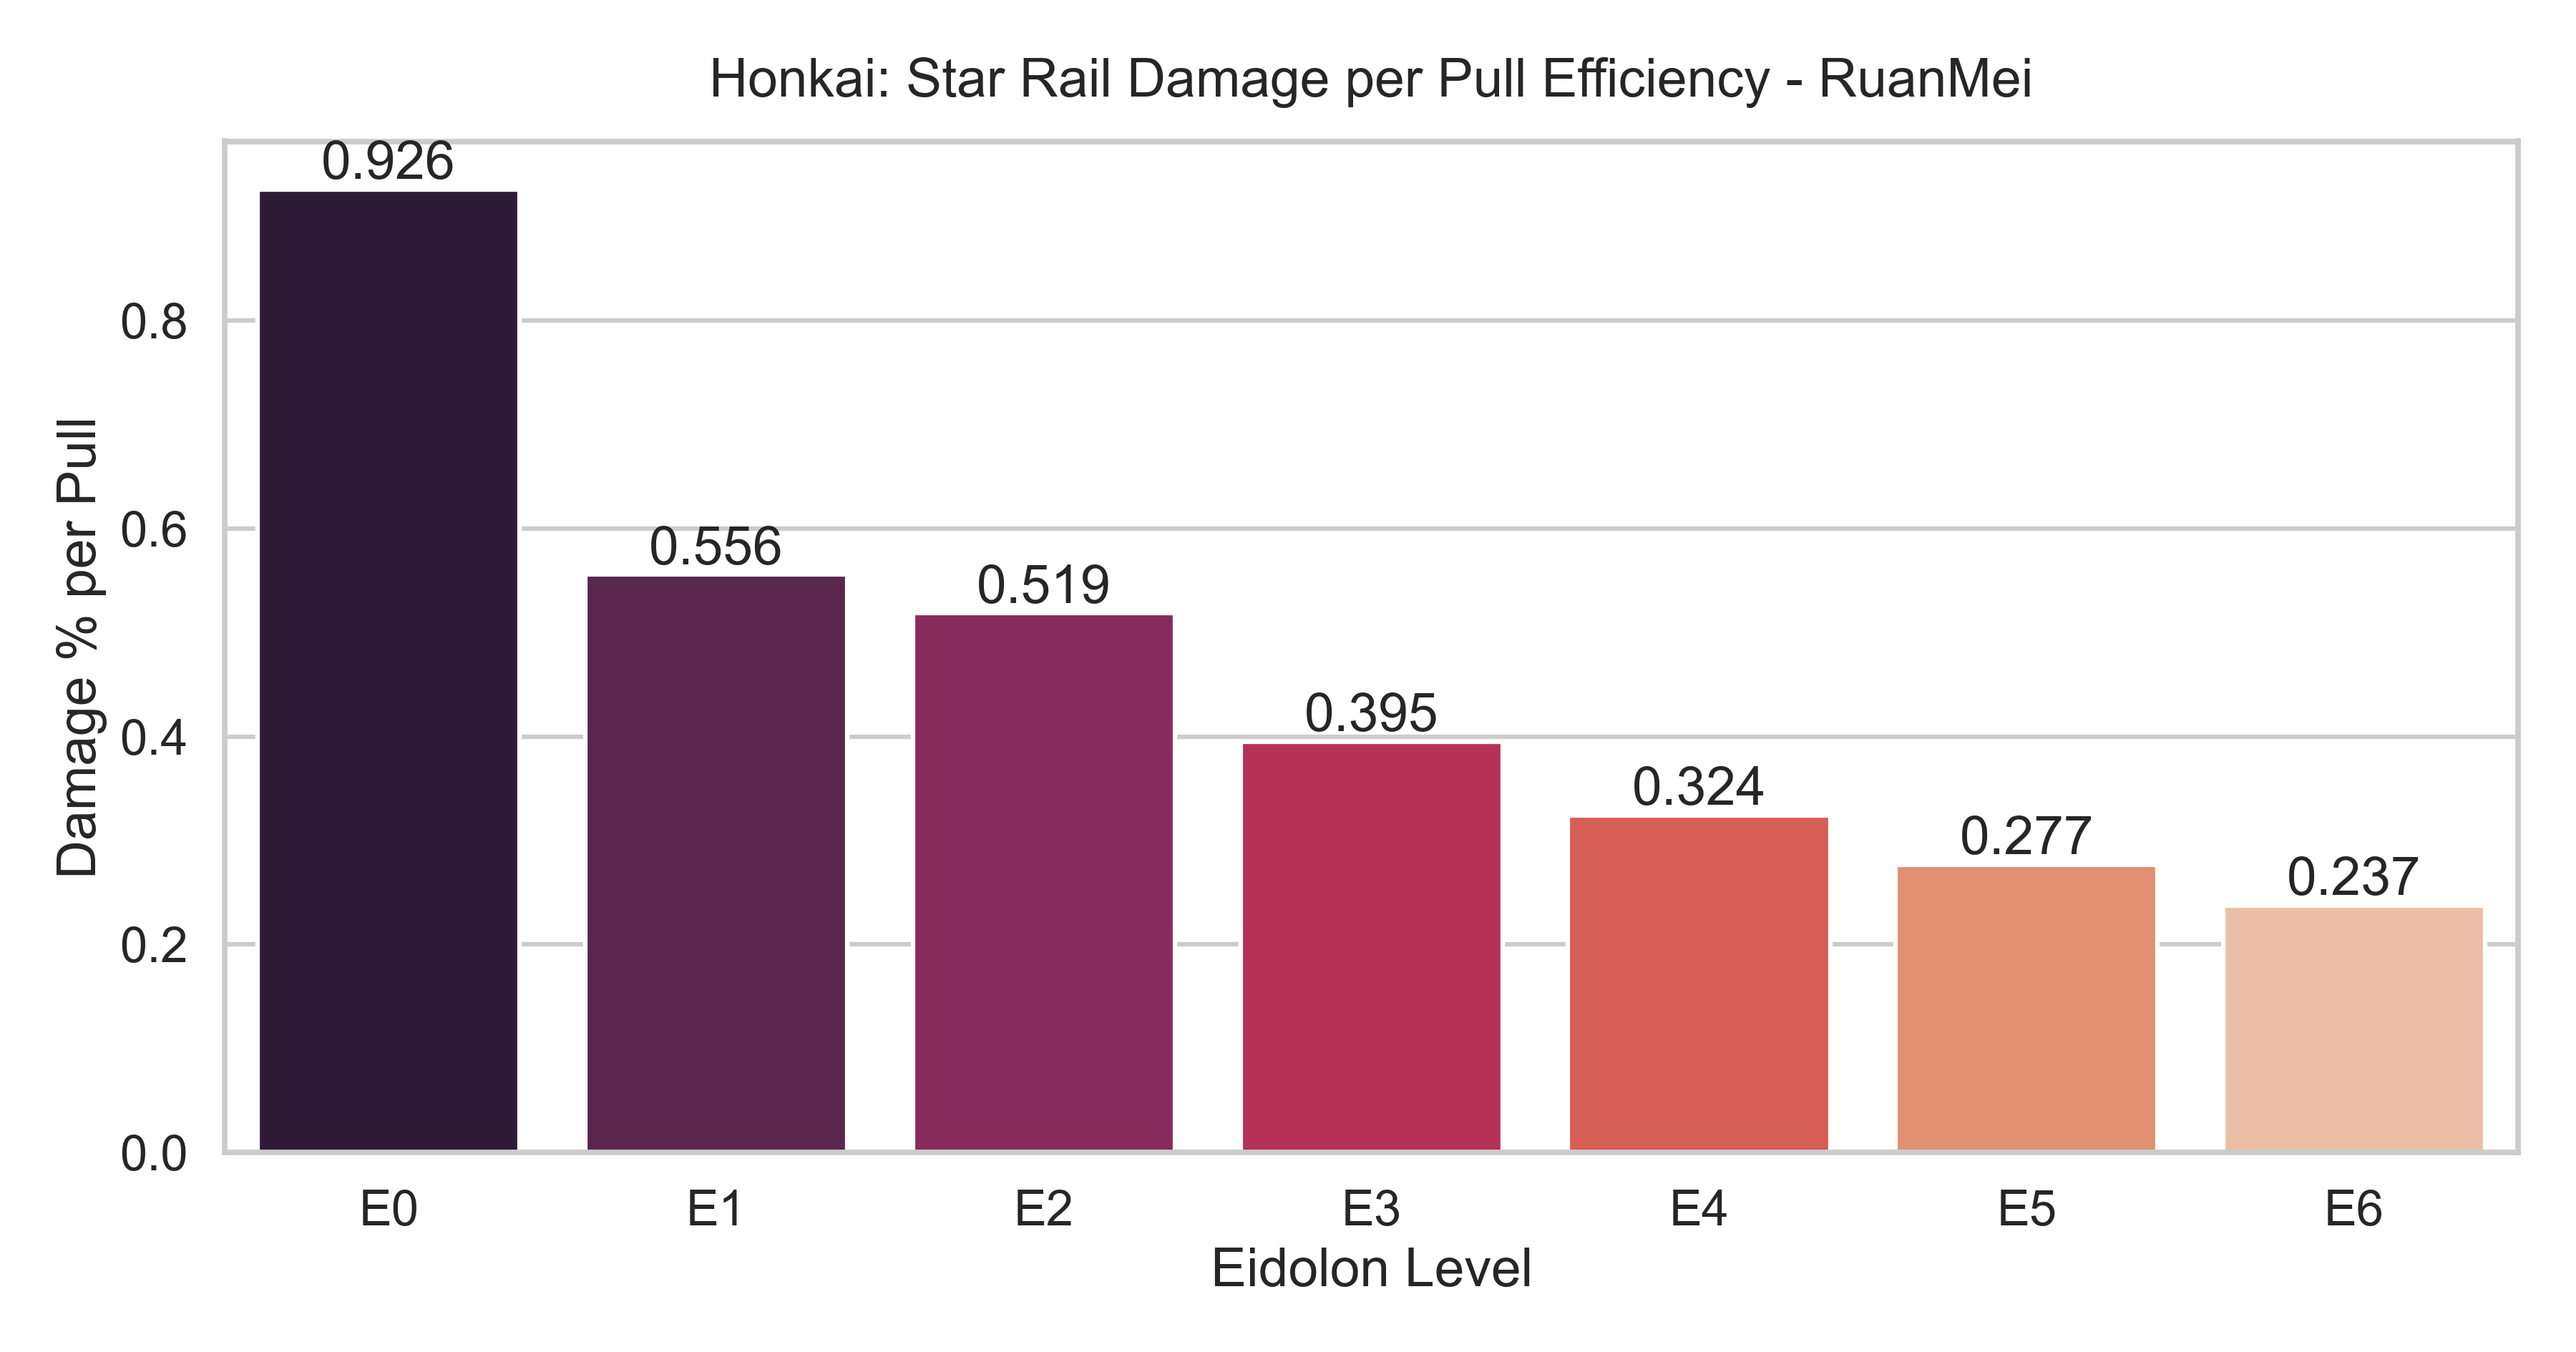
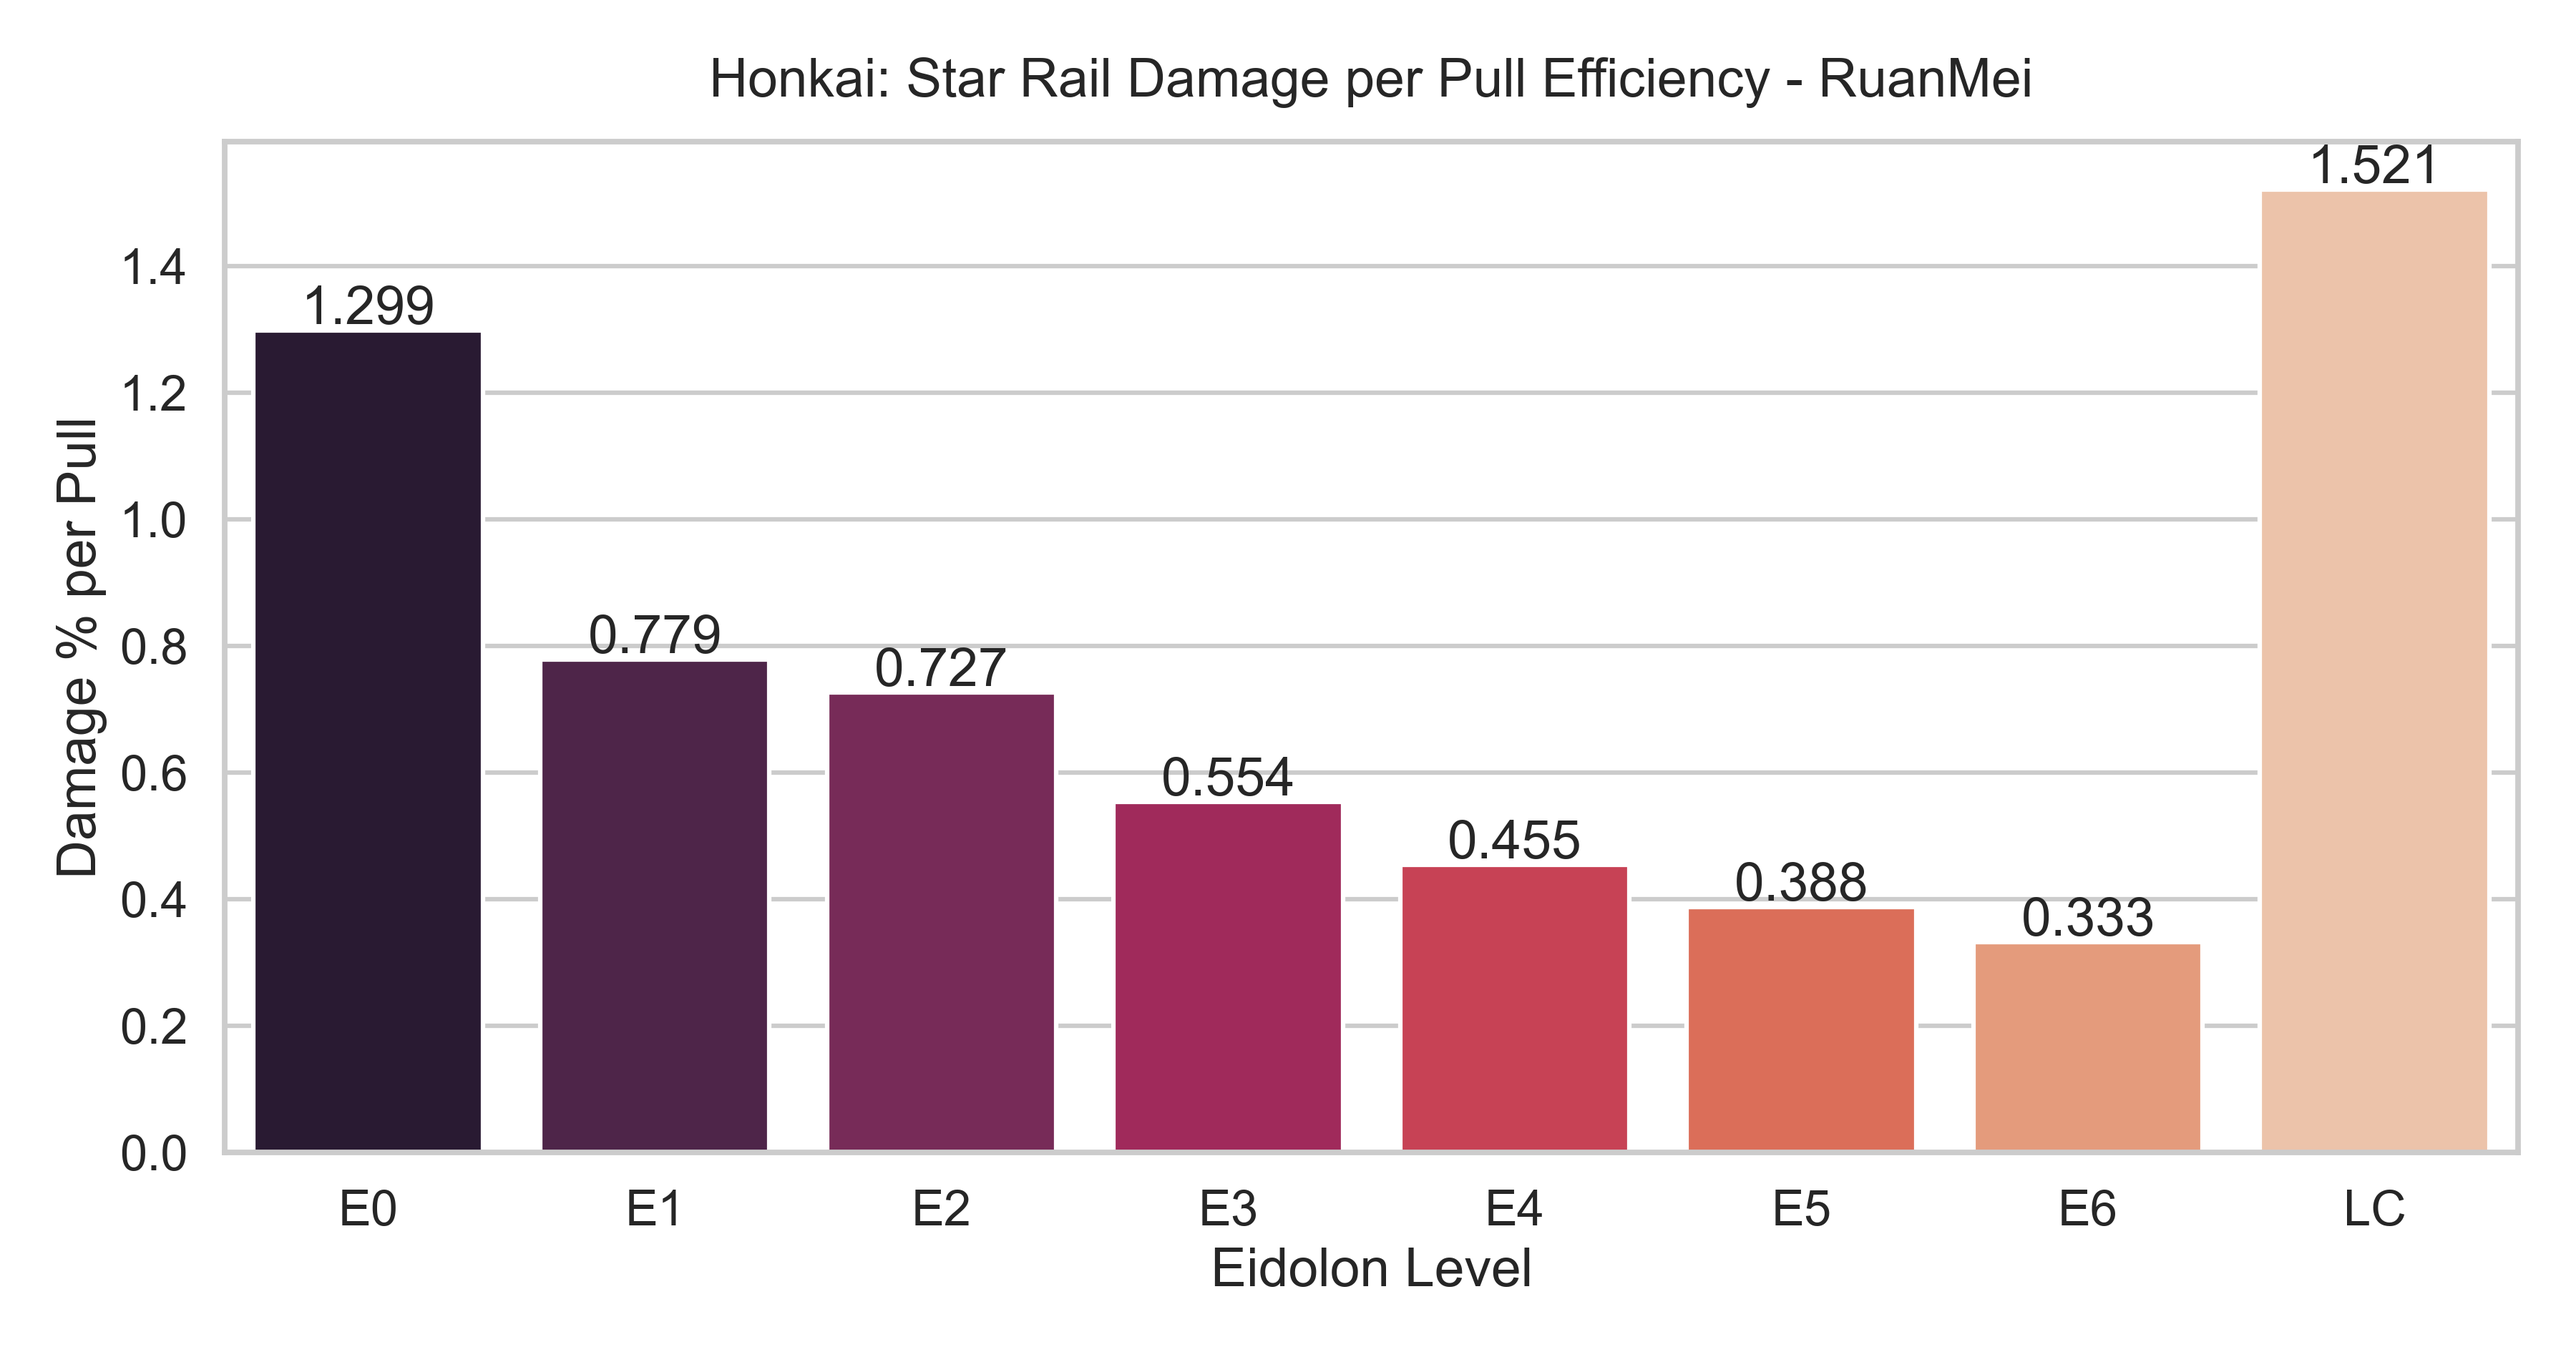
Refactor RuanMei damage calculations: improve clarity in damage increase calculations, update pull efficiency metrics, and enhance simulation data processing for better plot generation.

diff --git a/calculator/plot_eidolon_value.py b/calculator/plot_eidolon_value.py
@@ -5,37 +5,40 @@ import pandas as pd
 from pathlib import Path
 
 
-def convert_simulation_data_to_avg_dmg(simulation_data: dict[str, float]) -> dict[str, float]:
+def convert_simulation_data_to_avg_dmg(
+    simulation_data: dict[str, float],
+) -> dict[str, float]:
     """
     Convert simulation data to a format suitable for plotting eidolon value.
-    
+
     Args:
         simulation_data: Dictionary with keys like 'base_dmg', 'e1_dmg', etc.
-        
+
     Returns:
         dict[str, float]: Dictionary mapping eidolon levels to normalized damage percentages
     """
     # Map simulation keys to eidolon levels
     key_to_eidolon = {
         "base_dmg": "E0",
-        "e1_dmg": "E1", 
+        "e1_dmg": "E1",
         "e2_dmg": "E2",
         "e3_dmg": "E3",
         "e4_dmg": "E4",
         "e5_dmg": "E5",
         "e6_dmg": "E6",
+        "lc_dmg": "LC",
     }
-    
+
     # Extract base damage as reference
     base_dmg = simulation_data["base_dmg"]
-    
+
     # Calculate normalized damage percentages
     avg_dmg = {
         key_to_eidolon[key]: (value / base_dmg) * 100
         for key, value in simulation_data.items()
         if key in key_to_eidolon
     }
-    
+
     return avg_dmg
 
 
@@ -50,8 +53,10 @@ def calculate_pulls_per_eidolon():
     Returns:
         Dictionary mapping eidolon levels to cumulative pull counts
     """
-    # Approximately 108 pulls per copy on average with the 50/50 system
-    pulls_per_copy = 108
+    # Approximately 77 pulls per copy on average with the 50/50 system
+    pulls_per_copy = 77
+    # Approximately 69 pulls per copy on average with the 75/25 system
+    lc_pulls = 69
 
     return {
         "E0": pulls_per_copy,  # First copy (base character)
@@ -61,6 +66,7 @@ def calculate_pulls_per_eidolon():
         "E4": pulls_per_copy * 5,  # Fifth copy
         "E5": pulls_per_copy * 6,  # Sixth copy
         "E6": pulls_per_copy * 7,  # Seventh copy
+        "LC": lc_pulls + pulls_per_copy,  # Signature Light Cone
     }
 
 
@@ -80,9 +86,13 @@ def calculate_marginal_value(avg_dmg, pulls_per_eidolon):
     eidolons = list(avg_dmg.keys())
     result = {}
 
-    for i in range(1, len(eidolons)):
-        prev_eidolon = eidolons[i - 1]
-        curr_eidolon = eidolons[i]
+    # First, ensure we have the standard Eidolon transitions (E0-E1, E1-E2, etc.)
+    standard_eidolons = [e for e in eidolons if e.startswith('E')]
+    standard_eidolons.sort(key=lambda x: int(x[1:]))  # Sort by Eidolon number
+    
+    for i in range(1, len(standard_eidolons)):
+        prev_eidolon = standard_eidolons[i - 1]
+        curr_eidolon = standard_eidolons[i]
 
         dmg_increase = avg_dmg[curr_eidolon] - avg_dmg[prev_eidolon]
         pull_increase = (
@@ -91,6 +101,14 @@ def calculate_marginal_value(avg_dmg, pulls_per_eidolon):
 
         marginal_value = dmg_increase / pull_increase
         result[f"{prev_eidolon}-{curr_eidolon}"] = marginal_value
+    
+    # Add E0-LC transition if LC exists in the data
+    if "LC" in eidolons:
+        dmg_increase = avg_dmg["LC"] - avg_dmg["E0"]
+        pull_increase = pulls_per_eidolon["LC"] - pulls_per_eidolon["E0"]
+        
+        marginal_value = dmg_increase / pull_increase
+        result["E0-LC"] = marginal_value
 
     return result
 

diff --git a/simulations/characters/ruan_mei.py b/simulations/characters/ruan_mei.py
@@ -46,18 +46,19 @@ class RuanMei(Character):
         if has_lc:
             lc_increased_break_effect = 0.6
             dmg_multiplier = 0.24
-            general_dmg_increase = self.calculate_dmg_increased_by_skill_points(
-                1
-            ) + self.calculate_dmg_increased_from_energy_regen(10)
+            skill_dmg_increase = self.calculate_dmg_increased_by_skill_points(1)
+            energy_gain_increase = self.calculate_dmg_increased_from_energy_regen(10)
         else:
             lc_increased_break_effect = 0
             dmg_multiplier = 0.0
-            general_dmg_increase = 0
+            skill_dmg_increase = 0
+            energy_gain_increase = 0
 
         def_ignore_buff = 1 + def_ignore
         speed_buff = 1 + self.SPD_INCREASED_FROM_TALENT_PERCENT
         dmg_multiplier_buff = 1 + dmg_multiplier
-        general_dmg_increase_buff = 1 + general_dmg_increase
+        skill_dmg_increase_buff = 1 + skill_dmg_increase
+        energy_gain_increase_buff = 1 + energy_gain_increase
 
         atk = self.atk * (1 + atk_increase)
         base_dmg = self.calculate_dmg(atk, self.skill_multiplier)
@@ -79,7 +80,8 @@ class RuanMei(Character):
             * def_ignore_buff
             * speed_buff
             * dmg_multiplier_buff
-            * general_dmg_increase_buff
+            * skill_dmg_increase_buff
+            * energy_gain_increase_buff
         )
 
         talent_break_dmg = base_break_dmg * self.TALENT_BREAK_DMG_MULTIPLIER
@@ -92,7 +94,8 @@ class RuanMei(Character):
             * def_ignore_buff
             * speed_buff
             * dmg_multiplier_buff
-            * general_dmg_increase_buff
+            * skill_dmg_increase_buff
+            * energy_gain_increase_buff
         )
 
         final_ult_break_dmg = (
@@ -102,7 +105,8 @@ class RuanMei(Character):
             * def_ignore_buff
             * speed_buff
             * dmg_multiplier_buff
-            * general_dmg_increase_buff
+            * skill_dmg_increase_buff
+            * energy_gain_increase_buff
         )
 
         break_dmg = final_talent_break_dmg + final_ult_break_dmg

diff --git a/main.py b/main.py
@@ -12,28 +12,28 @@ from calculator.plot_eidolon_value import (
 def main():
     # Initialize character
     ruan_mei = RuanMei()
-    
+
     # Run simulations
     simulation_data = run_simulations(ruan_mei)
-    
+
     # Print raw simulation results
     print("Raw simulation results:")
     for key, value in simulation_data.items():
         print(f"{key}: {value:.2f}")
-    
+
     print("\nGenerating plots...")
-    
+
     # Convert simulation data to normalized damage percentages
     avg_dmg = convert_simulation_data_to_avg_dmg(simulation_data)
-    
+
     # Calculate the pull efficiency metrics
     pulls_per_eidolon = calculate_pulls_per_eidolon()
     dmg_per_pull = calculate_dmg_per_pull(avg_dmg, pulls_per_eidolon)
     marginal_value = calculate_marginal_value(avg_dmg, pulls_per_eidolon)
-    
+
     # Generate plots
     plot_eidolon_value(avg_dmg, dmg_per_pull, marginal_value, character_name="RuanMei")
-    
+
     print("Analysis complete!")
 
 

diff --git a/simulations/characters/base_character.py b/simulations/characters/base_character.py
@@ -186,7 +186,7 @@ class Character:
             Damage increase percentage
         """
         base_turn = 5
-
+        
         base_energy_regen = 30.0
         base_turn_until_ult = self.ult_energy / base_energy_regen
 
@@ -204,5 +204,5 @@ class Character:
 
         # Calculate damage increase
         damage_increase = (new_cycle_dmg / base_cycle_dmg) - 1
-
+        
         return damage_increase

diff --git a/docs/VISUALS.md b/docs/VISUALS.md
@@ -46,7 +46,6 @@ This chart shows the additional damage gained per additional pull required when 
 
 In many characters, certain Eidolons (like E1 or E2) might show significantly higher marginal value than others, suggesting these are good stopping points for free-to-play or low-spending players.
 
-
 ## Interpreting the Results
 
 When analyzing these plots together, consider:
